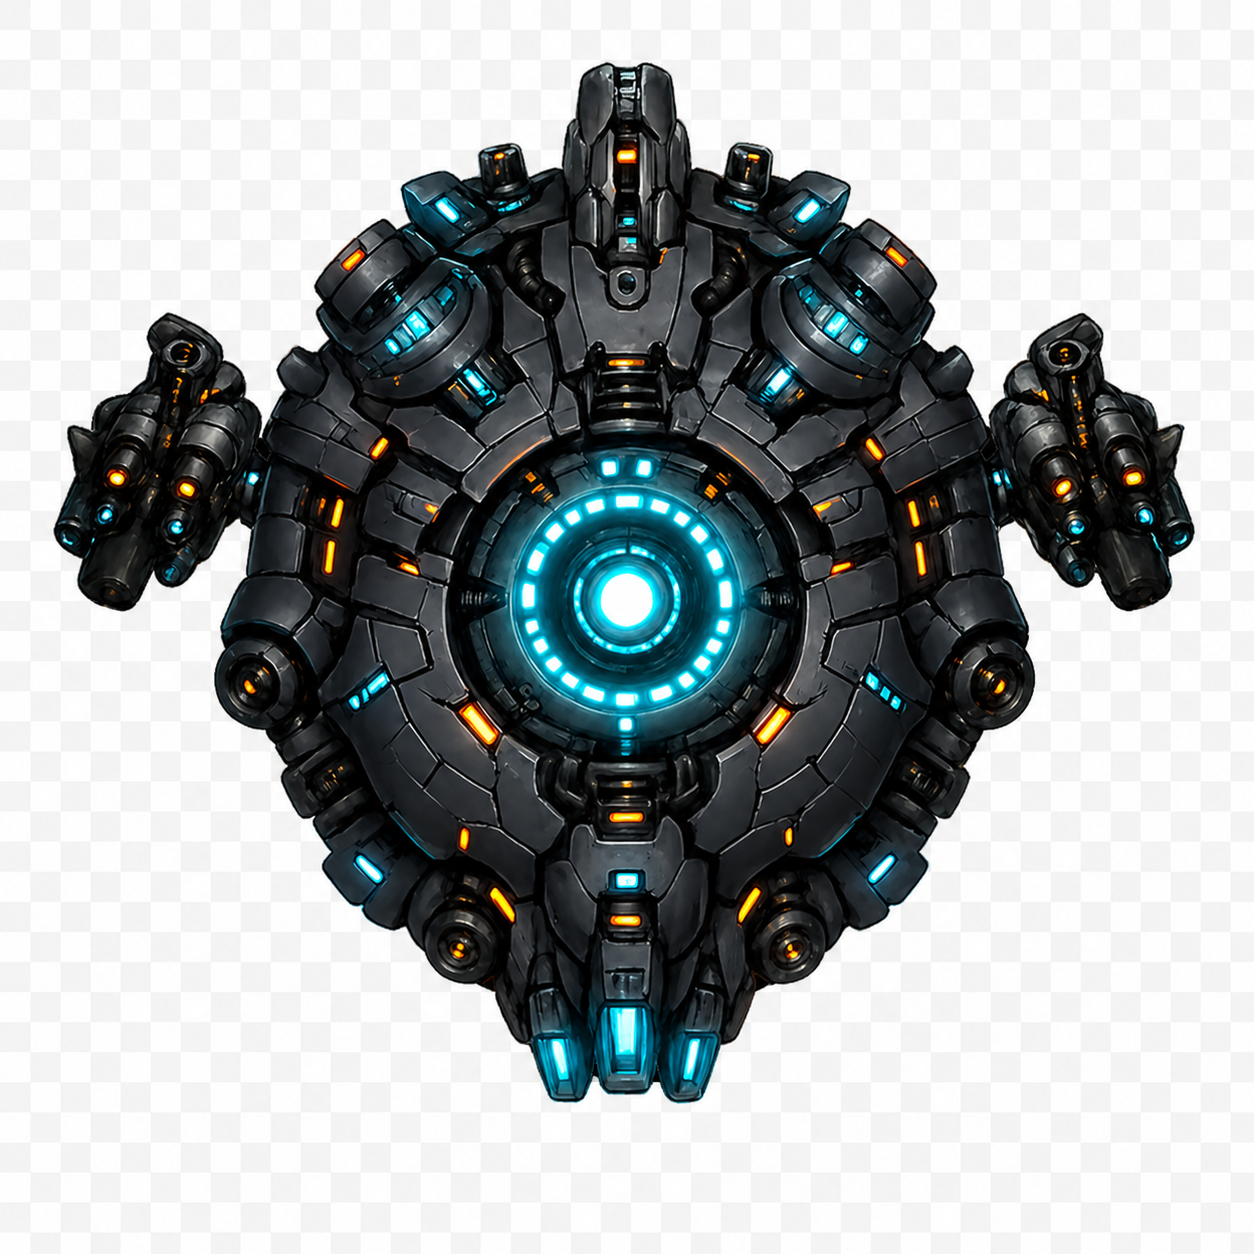
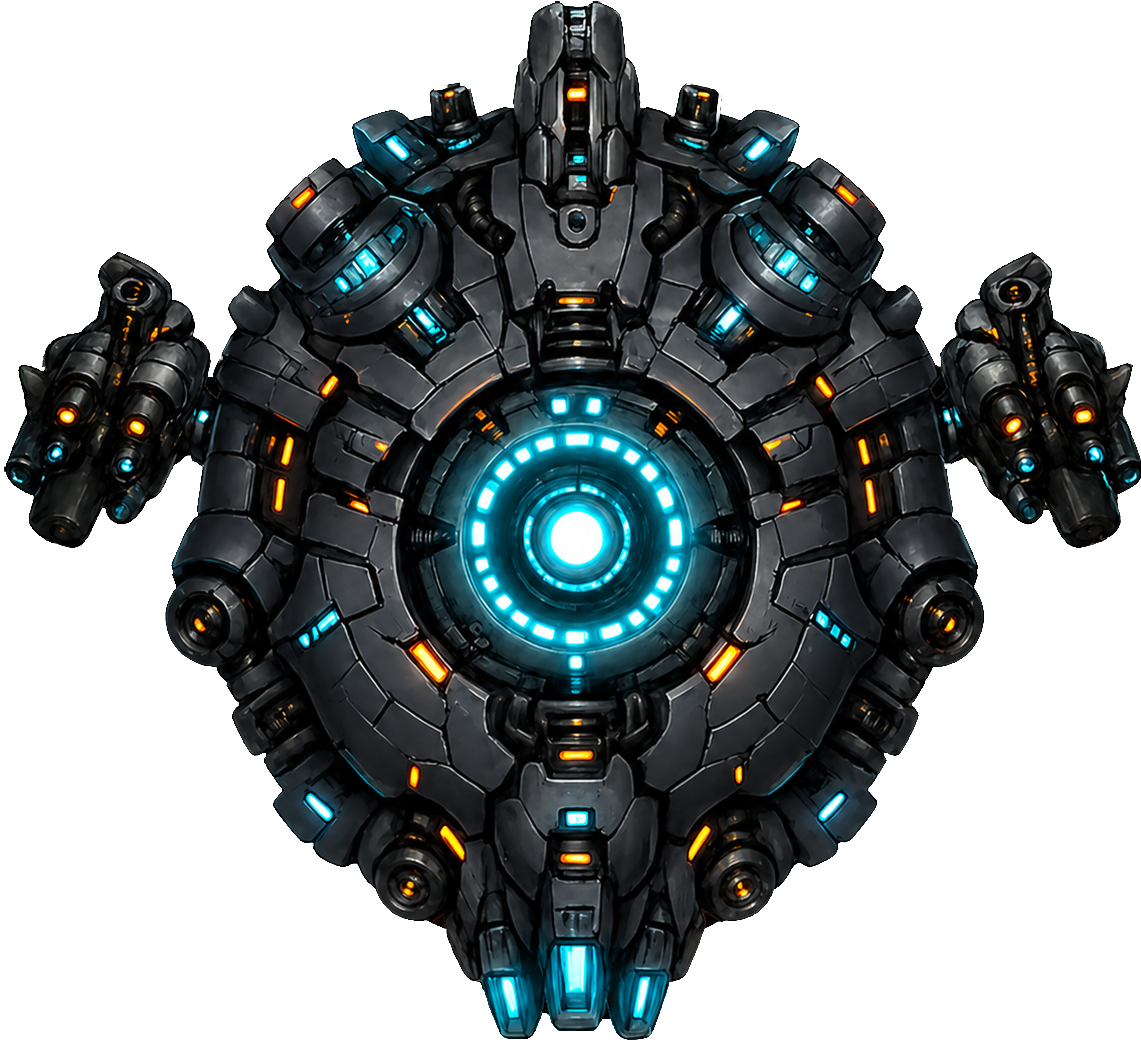
Add animated final boss claws

diff --git a/ThoriumGap_JS/ThoriumGap.js b/ThoriumGap_JS/ThoriumGap.js
@@ -181,6 +181,8 @@
   const bossArtLoadKeys = new Set();
   const bossGlowLoadKeys = new Set();
   const bossGlowTextures = new Map();
+  const bossPartLoadKeys = new Set();
+  const bossPartTextures = new Map();
   const bossHitBoxes = new Map();
   const debugLabelTextures = new Map();
 
@@ -600,7 +602,17 @@
   }
 
   function bossArtSource(levelNumber) {
+    if (levelNumber === 13) return 'assets/Boss_13_Body.png';
     return 'assets/Boss_' + String(levelNumber).padStart(2, '0') + '.png';
+  }
+
+  function bossPartKey(levelNumber, partName) {
+    return 'bosspart|' + levelNumber + '|' + partName;
+  }
+
+  function bossPartSource(levelNumber, partName) {
+    if (levelNumber === 13 && (partName === 'leftClaw' || partName === 'rightClaw')) return 'assets/Boss_13_LeftClaw.png';
+    return '';
   }
 
   function makeNormalizedBossCanvas(img, size) {
@@ -726,8 +738,53 @@
     img.src = bossArtSource(levelNumber);
   }
 
+  function ensureBossPartTexture(levelNumber, partName) {
+    const key = bossPartKey(levelNumber, partName);
+    if (bossPartTextures.has(key) || bossPartLoadKeys.has(key)) return;
+    const src = bossPartSource(levelNumber, partName);
+    if (!src) return;
+    bossPartLoadKeys.add(key);
+    const img = new Image();
+    img.decoding = 'async';
+    img.onload = function () {
+      try {
+        let source = img;
+        if (levelNumber === 13 && partName === 'rightClaw') {
+          const w = Math.max(1, img.naturalWidth || img.width || 1);
+          const h = Math.max(1, img.naturalHeight || img.height || 1);
+          const c = makeCanvas(w, h);
+          const g = c.getContext('2d');
+          if (g) {
+            g.translate(w, 0);
+            g.scale(-1, 1);
+            g.drawImage(img, 0, 0, w, h);
+            source = c;
+          }
+        }
+        const tex = createTextureFromCanvas(source);
+        if (tex) {
+          bossPartTextures.set(key, {
+            texture: tex,
+            w: Math.max(1, img.naturalWidth || img.width || 1),
+            h: Math.max(1, img.naturalHeight || img.height || 1)
+          });
+        }
+      } finally {
+        bossPartLoadKeys.delete(key);
+      }
+    };
+    img.onerror = function () {
+      bossPartLoadKeys.delete(key);
+    };
+    img.src = src;
+  }
+
   function warmBossArt(levelNumber) {
     ensureBossTexture(levelNumber);
+    if (levelNumber === 13) {
+      ensureBossPartTexture(levelNumber, 'leftClaw');
+      ensureBossPartTexture(levelNumber, 'rightClaw');
+    }
   }
 
   function getBossTexture(levelNumber) {
@@ -749,6 +806,14 @@
   function getBossHitBox(levelNumber) {
     const key = bossArtKey(levelNumber);
     return bossHitBoxes.get(key) || { x: -256, y: -256, w: 512, h: 512 };
+  }
+
+  function getBossPartTexture(levelNumber, partName) {
+    const key = bossPartKey(levelNumber, partName);
+    const entry = bossPartTextures.get(key);
+    if (entry) return entry;
+    ensureBossPartTexture(levelNumber, partName);
+    return null;
   }
 
   function circleIntersectsRect(cx, cy, cr, rect) {
@@ -2297,7 +2362,7 @@
   }
 
   function assetWarmupBusy() {
-    return !!(playerShipTextureLoading || playerAuraTextureLoading || bossArtLoadKeys.size || enemyShipLoadKeys.size || glowImageLoads.size || planetDecorLoadKeys.size || planetDecorTextureLoadKeys.size);
+    return !!(playerShipTextureLoading || playerAuraTextureLoading || bossArtLoadKeys.size || bossPartLoadKeys.size || enemyShipLoadKeys.size || glowImageLoads.size || planetDecorLoadKeys.size || planetDecorTextureLoadKeys.size);
   }
 
   function warmAllTextures() {
@@ -2393,6 +2458,26 @@
     clearParticleList();
     clearEnemyBulletsWithBudget(9999);
     spawnBoss(theme);
+  }
+
+  function debugJumpToFinalBoss() {
+    if (!state.debugMode || !state.assetsReady || state.transition) return;
+    if (state.mode !== 'playing') {
+      closeSettings();
+      resetRun();
+      state.mode = 'playing';
+    }
+    const finalIndex = THEMES.length - 1;
+    beginLevel(finalIndex);
+    state.levelClock = 40 + finalIndex * 2;
+    state.waveClock = 0;
+    state.banner = 'BOSS!';
+    state.bannerSub = mainTheme().subtitle;
+    state.bannerTimer = 1.2;
+    clearProjectileLists();
+    clearParticleList();
+    clearEnemyBulletsWithBudget(9999);
+    spawnBoss(mainTheme());
   }
 
   function beginLevel(index) {
@@ -5136,6 +5221,61 @@
       }
   }
 
+  function drawTextureRectAroundLocalPoint(texture, socketX, socketY, w, h, localX, localY, rot, opts) {
+    const c = Math.cos(rot);
+    const s = Math.sin(rot);
+    const ox = localX - w * 0.5;
+    const oy = localY - h * 0.5;
+    const cx = socketX - (ox * c - oy * s);
+    const cy = socketY - (ox * s + oy * c);
+    const o = opts || {};
+    drawTextureRect(texture, cx, cy, w, h, {
+      rot: rot,
+      alpha: o.alpha == null ? 1 : o.alpha,
+      layer: o.layer || 0,
+      lighter: o.lighter,
+      fill: o.fill || '#ffffff'
+    });
+  }
+
+  function drawFinalBossClaws(b, bodyRot) {
+    const left = getBossPartTexture(13, 'leftClaw');
+    const right = getBossPartTexture(13, 'rightClaw');
+    if (!left && !right) return;
+    const size = Math.max(1, b.size || 512);
+    const bodyRawW = 1141;
+    const bodyRawH = 1042;
+    const scale = Math.min(size / bodyRawW, size / bodyRawH);
+    const bodyDrawW = bodyRawW * scale;
+    const bodyDrawH = bodyRawH * scale;
+    const bodyDx = (size - bodyDrawW) * 0.5;
+    const bodyDy = (size - bodyDrawH) * 0.5;
+    const clawScale = scale * 0.75;
+    const slowFlex = 0.5 + 0.5 * Math.sin(b.age * 1.35);
+    const twitch = Math.pow(Math.max(0, Math.sin(b.age * 8.7 + Math.sin(b.age * 2.1) * 1.8)), 7);
+    const jitter = Math.sin(b.age * 18.3) * 0.035 + Math.sin(b.age * 31.7) * 0.018;
+    const clawRot = clamp(slowFlex * 0.62 + twitch * 0.38 + jitter, 0, 1) * (Math.PI * 0.25);
+    const bc = Math.cos(bodyRot);
+    const bs = Math.sin(bodyRot);
+    const leftBodyX = bodyDx + 325 * scale - size * 0.5;
+    const rightBodyX = bodyDx + 829 * scale - size * 0.5;
+    const bodySocketY = bodyDy + 543 * scale - size * 0.5;
+    const leftSocketX = b.x + leftBodyX * bc - bodySocketY * bs;
+    const leftSocketY = b.y + leftBodyX * bs + bodySocketY * bc;
+    const rightSocketX = b.x + rightBodyX * bc - bodySocketY * bs;
+    const rightSocketY = b.y + rightBodyX * bs + bodySocketY * bc;
+    if (left) {
+      const w = left.w * clawScale;
+      const h = left.h * clawScale;
+      drawTextureRectAroundLocalPoint(left.texture, leftSocketX, leftSocketY, w, h, 800 * clawScale, 80 * clawScale, bodyRot + clawRot, { alpha: 0.98, layer: 26 });
+    }
+    if (right) {
+      const w = right.w * clawScale;
+      const h = right.h * clawScale;
+      drawTextureRectAroundLocalPoint(right.texture, rightSocketX, rightSocketY, w, h, 545 * clawScale, 80 * clawScale, bodyRot - clawRot, { alpha: 0.98, layer: 26 });
+    }
+  }
+
   function drawBossBody(b) {
     const p = bossPalette(b);
     const r = b.r;
@@ -5149,6 +5289,7 @@
     const facingRight = flipWhenMovingRight ? !!b.facingRight : false;
     const texture = getBossTexture(levelNumber);
     const glowTexture = getBossGlowTexture(levelNumber);
+    if (levelNumber === 13) drawFinalBossClaws(b, rot);
     if (glowTexture) {
       const pulse = 0.45 + 0.30 * Math.sin(Math.PI * b.age);
       const boost = clamp(b.glowBoost || 0, 0, 1);
@@ -5903,10 +6044,14 @@
       }
       return;
     }
-    if (code === 'ArrowLeft' || code === 'ArrowRight' || code === 'ArrowUp' || code === 'ArrowDown' || code === 'KeyA' || code === 'KeyD' || code === 'KeyW' || code === 'KeyS' || code === 'Space' || code === 'KeyZ' || code === 'ControlLeft' || code === 'ControlRight' || code === 'Enter' || code === 'KeyX' || code === 'KeyB' || code === 'KeyP' || code === 'KeyM' || code === 'KeyR' || code === 'Escape' || code === 'KeyO') {
+    if (code === 'ArrowLeft' || code === 'ArrowRight' || code === 'ArrowUp' || code === 'ArrowDown' || code === 'KeyA' || code === 'KeyD' || code === 'KeyW' || code === 'KeyS' || code === 'Space' || code === 'KeyZ' || code === 'ControlLeft' || code === 'ControlRight' || code === 'Enter' || code === 'KeyX' || code === 'KeyB' || code === 'KeyP' || code === 'KeyM' || code === 'KeyR' || code === 'KeyL' || code === 'Escape' || code === 'KeyO') {
         ev.preventDefault();
         resumeAudio();
       }
+    if (state.debugMode && code === 'KeyL') {
+      ev.preventDefault();
+      if (!ev.repeat) debugJumpToFinalBoss();
+    }
     if (state.debugMode && code === 'Digit0') {
       ev.preventDefault();
       if (!ev.repeat) debugJumpToBoss();

diff --git a/ThoriumGap_JS/sw.js b/ThoriumGap_JS/sw.js
@@ -1,6 +1,6 @@
 'use strict';
 
-var CACHE_NAME = 'thoriumgap-v3';
+var CACHE_NAME = 'thoriumgap-v4';
 var APP_SHELL = [
   './ThoriumGap.html',
   './ThoriumGap.js',
@@ -25,6 +25,8 @@ var APP_ASSETS = (function () {
   out.push('./assets/glow_e_red.png');
 
   for (lvl = 1; lvl <= 13; lvl++) out.push('./assets/Boss_' + z2(lvl) + '.png');
+  out.push('./assets/Boss_13_Body.png');
+  out.push('./assets/Boss_13_LeftClaw.png');
   for (lvl = 1; lvl <= 32; lvl++) out.push('./assets/planet_image_' + z2(lvl) + '.png');
   for (lvl = 1; lvl <= 13; lvl++) {
     for (ship = 0; ship <= 6; ship++) {
